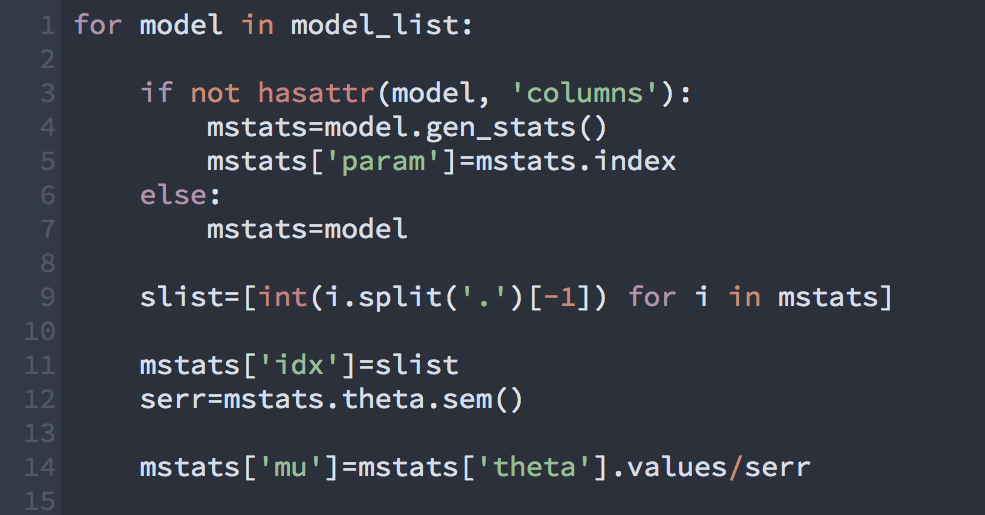
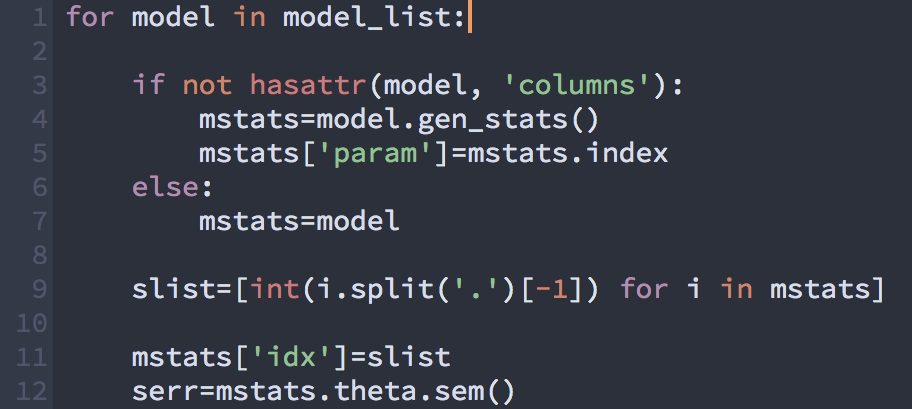
added light flavor; updated readme

diff --git a/oceans16D.css b/oceans16D.css
@@ -1,6 +1,6 @@
 /*
 
-    Name:       Oceans16
+    Name:       Oceans16 Dark
     Author:     Kyle Dunovan (http://github.com/dunovank)
 
     Original Color Scheme by Gadzhi Kharkharov (https://github.com/kkga/spacegray)

diff --git a/oceans16L.css b/oceans16L.css
@@ -1,6 +1,6 @@
 /*
 
-	Name:       Oceans16L
+	Name:       Oceans16 Light
 	Author:     Kyle Dunovan (http://github.com/dunovank)
 
 	Original Color Scheme by Gadzhi Kharkharov (https://github.com/kkga/spacegray)

diff --git a/README.md b/README.md
@@ -3,11 +3,13 @@ Oceans16
 
 ## Dark-ify your IPython Notebooks!
 
-This theme is essentially a mash-up of the Ocean Dark IPyNB Theme by [Nikhil Sonnad](https://github.com/nsonnad/base16-ipython-notebook)
-and the default Spacegray color scheme for Sublime Text by [Gadzhi Kharkharov](https://github.com/kkga/spacegray), which are both constructed using the original [Base16 color scheme](https://github.com/chriskempson/base16) by [Chris Kempson](https://github.com/chriskempson). General notebook and code cell layout are adapted from [this](https://github.com/panditarevolution/ipythonNotebook_customs/blob/master/monokai/custom.css) theme by [panditarevolution](https://github.com/panditarevolution). 
+This theme is essentially a mash-up of the Ocean Dark/Light IPyNB Themes by [Nikhil Sonnad](https://github.com/nsonnad/base16-ipython-notebook) and the Spacegray Ocean color schemes for Sublime Text by [Gadzhi Kharkharov](https://github.com/kkga/spacegray), which are both constructed using the original [Base16 color scheme](https://github.com/chriskempson/base16) by [Chris Kempson](https://github.com/chriskempson). General notebook and code cell layout are adapted from [this](https://github.com/panditarevolution/ipythonNotebook_customs/blob/master/monokai/custom.css) theme by [panditarevolution](https://github.com/panditarevolution). 
 
-### Python code in Oceans16 
-![image](Screens/oceans16_close-up.png)
+### Python code in Oceans16 Dark  
+![image](Screens/oceans16D_close-up.png)
+
+### Python code in Oceans16 Light
+![image](Screens/oceans16L_close-up.png)
 
 ### IPython Notebook Home
 ![image](Screens/home_main.png)
@@ -22,21 +24,25 @@ and the default Spacegray color scheme for Sublime Text by [Gadzhi Kharkharov](h
 
 ## Install:
 
-#### find your ipython profile dir
+#### find your ipython config directory
 ```sh
 #usually ~/.ipython/profile_default/
 ipython locate profile default
 ```
-
 #### make a new ipython profile and copy over custom.css/js files
 ```sh
-ipython profile create oceans16        
-#From inside the cloned oceans16 repo:
-cp custom.* ~/.ipython/profile_oceans16/static/custom/
-```
+#To install the Dark theme:
+ipython profile create oceans16D
+cp custom.js ~/.ipython/profile_oceans16D/static/custom/
+cp oceans16D.css ~/.ipython/profile_oceans16D/static/custom/custom.css
 
-#### start a new notebook session using oceans16 profile
+#To install the Light theme:
+ipython profile create oceans16L
+cp custom.js ~/.ipython/profile_oceans16L/static/custom/
+cp oceans16L.css ~/.ipython/profile_oceans16L/static/custom/custom.css
+```
+#### start a new notebook session using oceans16D profile
 ```sh
-ipython notebook --profile=oceans16
+ipython notebook --profile=oceans16D
 ```
 
